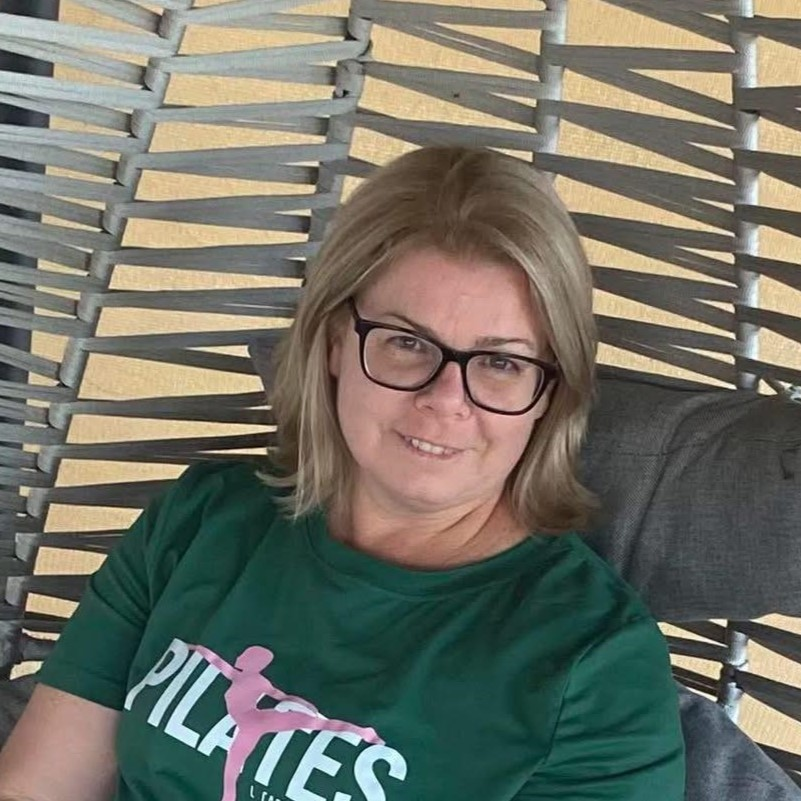
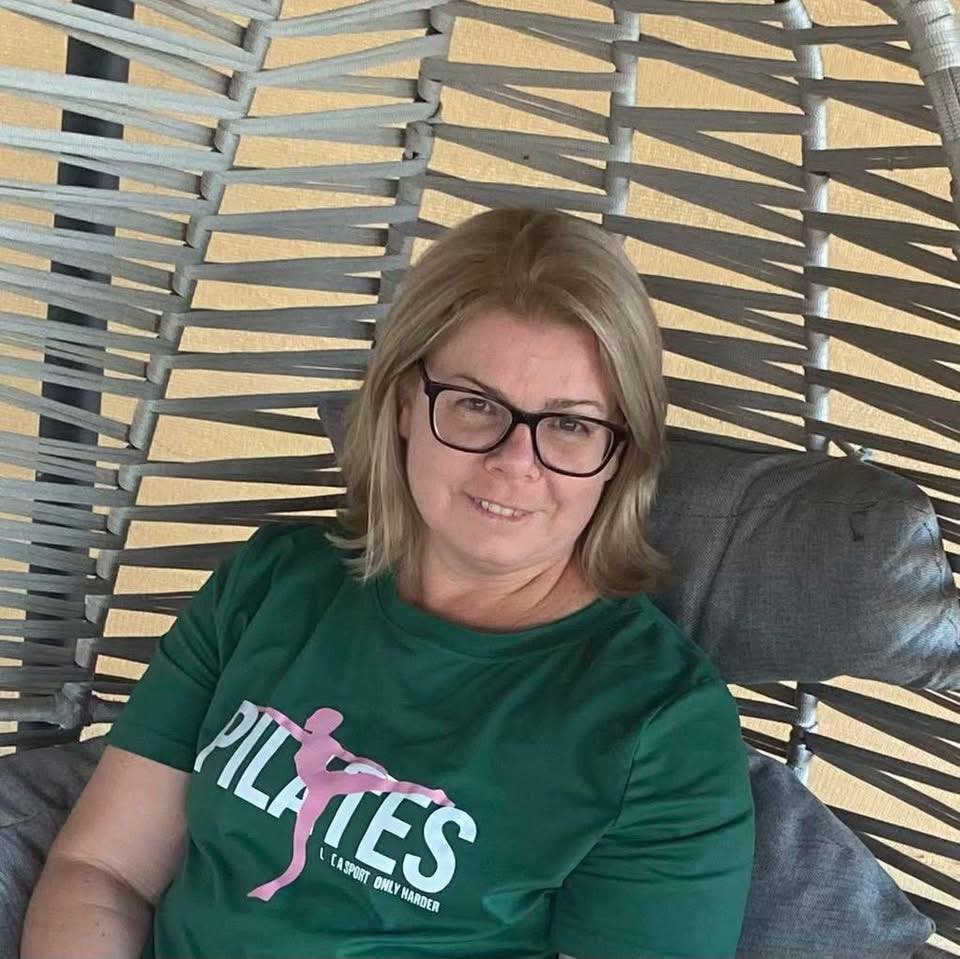
first commit

diff --git a/rolam.html b/rolam.html
@@ -37,10 +37,7 @@
         HA VAN FOTÓD: töröld az about-img-placeholder div-et és vedd ki ezt:
         <img src="kepek/trainer.jpg" alt="Benkő Bea" width="800" height="800">
       -->
-      <div class="about-img-placeholder">
-        <span class="emoji">🧘</span>
-        <span>Ide kerül a fotód<br><small>src="kepek/trainer.jpg"</small></span>
-      </div>
+      <img src="kepek/benkobea.jpg" alt="Benkő Bea" width="800" height="800">
     </div>
 
     <!-- Jobb: szöveg -->